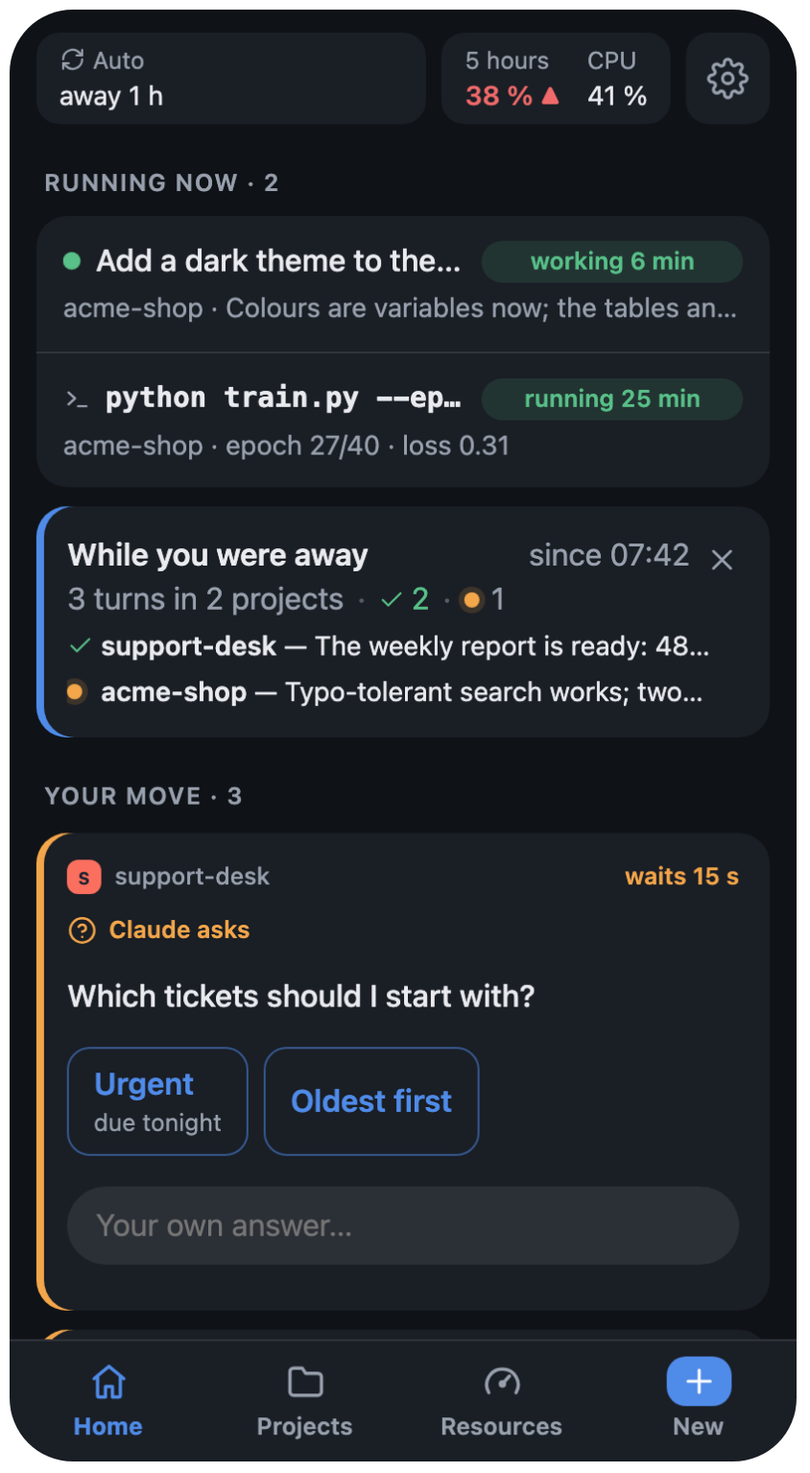
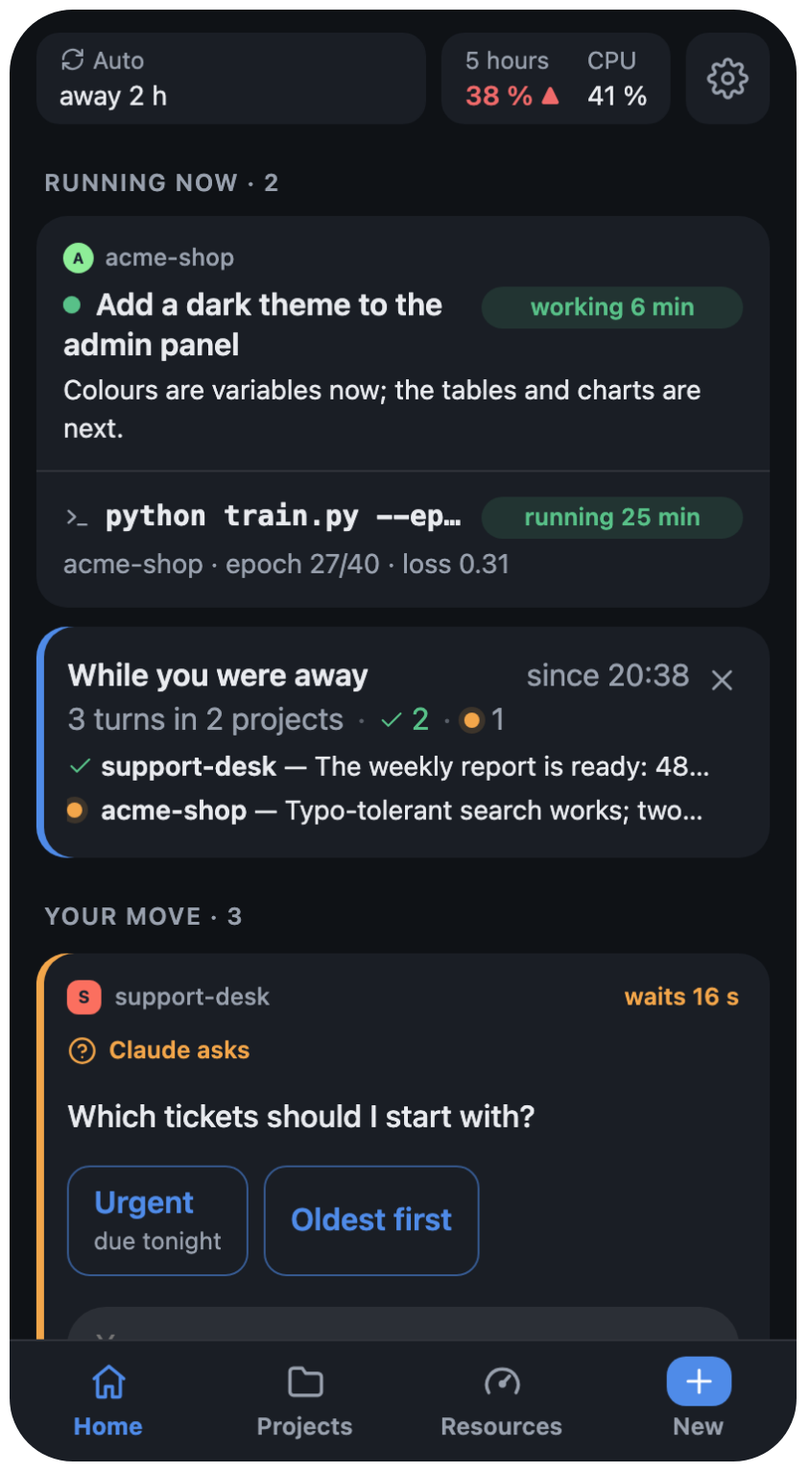
Pult 0.18.2 — work in progress on k2-windows

diff --git a/tools/media.py b/tools/media.py
@@ -1,11 +1,14 @@
 """Every picture of the README, made from the test stand and the daemon's own output — never from real projects.
 
   ~/.local/share/pult/venv/bin/python tools/media.py          # both languages, both themes, a few minutes
+  ~/.local/share/pult/venv/bin/python tools/media.py glance steps   # only these kinds (glance, steps, screens, hero, social)
 
   media/hero.{en,ru}[.dark].gif     the opening picture: the computer's Claude Code tab and the phone's topic side by
                                     side — a question on both, Allow on the phone, the tab goes on (tools/hero.py)
+  media/glance.{en,ru}[.dark].png   what the phone can do, in twelve tiles — the whole of Pult in one look
   media/steps.{en,ru}[.dark].png    how it works in three steps
-  media/f-<name>.{en,ru}[.dark].png one phone screen per feature: home, session, pace, files, newproject
+  media/f-<name>.{en,ru}[.dark].png one phone screen per feature: home, session, tags, pace, files, newproject, parts
+                                    (tags and parts come from a second stand: STAND_TAGS=1 STAND_PARTS=now)
   media/social.png                  1280×640, the link preview: GitHub takes it only in the repository's settings
                                     (Settings → General → Social preview); there is no API for it
   media/logo.svg, logo-512.png      the mark — tools/brand.py draws them
@@ -23,15 +26,20 @@ PY = sys.executable
 TMP = Path(tempfile.mkdtemp(prefix="pult-media-"))
 FONT = "-apple-system, BlinkMacSystemFont, 'Segoe UI', Roboto, sans-serif"
 
-# a feature's screen: the stand's link, the window's height (CSS px at 412 wide), what to do before the picture
+# a feature's screen: the stand's link, the window's height (CSS px at 412 wide), what to do before the picture, and
+# which stand it comes from — the plain one, or the one with a third project full of tagged tasks and every part of
+# Pult in Settings' table ("tags": STAND_TAGS=1 STAND_PARTS=now, on a port of its own)
 TO_BOTTOM = "window.scrollTo(0, document.documentElement.scrollHeight)"
 FEATURES = [
-    ("home", "HOME", 760, ""),
-    ("session", "SESS4", 760, TO_BOTTOM),
-    ("pace", "USAGE", 700, "document.querySelector('.spend-seg button').click()"),
-    ("files", "SESS4", 700, "document.querySelector('.tfline').click()"),
-    ("newproject", "NEWPROJ", 640, ""),
+    ("home", "HOME", 760, "", "main"),
+    ("session", "SESS4", 760, TO_BOTTOM, "main"),
+    ("tags", "PROJT", 760, "", "tags"),
+    ("pace", "USAGE", 700, "document.querySelector('.spend-seg button').click()", "main"),
+    ("files", "SESS4", 700, "document.querySelector('.tfline').click()", "main"),
+    ("newproject", "NEWPROJ", 640, "", "main"),
+    ("parts", "SETTINGS", 700, "", "tags"),
 ]
+STANDS = {"main": ("18097", {}), "tags": ("18099", {"STAND_TAGS": "1", "STAND_PARTS": "now"})}
 
 STEPS = {
     "en": [("Work as usual", "VS Code or a terminal: Pult picks up every session"),
@@ -41,6 +49,47 @@ STEPS = {
            ("Телефон зовёт, только когда нужен ты", "разрешение, вопрос, ход, который ждёт тебя"),
            ("Ответил — во вкладке пошло дальше", "разрешить, выбрать, ответить — прямо в открытую вкладку")],
 }
+# what the phone can do: a title of a few words and a line under it — the app's own line icons (IC in app.js)
+GLANCE = {
+    "en": [("Allow or deny", "a permission, from the phone"),
+           ("Answer a question", "an option, or your own words"),
+           ("Say what's next", "lands in the open VS Code tab"),
+           ("Whose move", "what runs, what waits for you"),
+           ("The whole session", "live, with ready replies"),
+           ("Voice", "speak — it arrives as text"),
+           ("Files both ways", "to the project and back"),
+           ("A new project", "a folder, a CLAUDE.md, a clone"),
+           ("Your plan's pace", "each limit, with a forecast"),
+           ("Tags on every task", "section and topic, by Claude"),
+           ("Model and effort", "per session, and a default"),
+           ("Keeps itself current", "a release in one tap; new Claude Code checked")],
+    "ru": [("Разрешить или нет", "запрос разрешения — с телефона"),
+           ("Ответить на вопрос", "вариант или свои слова"),
+           ("Сказать, что дальше", "в открытую вкладку VS Code"),
+           ("Чей ход", "что идёт, что ждёт тебя"),
+           ("Вся сессия", "вживую, с готовыми ответами"),
+           ("Голосом", "скажи — придёт текстом"),
+           ("Файлы в обе стороны", "в проект и обратно"),
+           ("Новый проект", "папка, CLAUDE.md или клон"),
+           ("Темп твоего плана", "каждый лимит, с прогнозом"),
+           ("Теги у каждой задачи", "раздел и тема, от Claude"),
+           ("Модель и раздумья", "на сессию и по умолчанию"),
+           ("Обновляется сам", "выпуск одной кнопкой; новый Claude Code проверен")],
+}
+GLANCE_ICONS = [
+    '<path d="M12 22s8-4 8-10V5l-8-3-8 3v7c0 6 8 10 8 10z"/><path d="m9 12 2 2 4-4"/>',                                    # shield
+    '<circle cx="12" cy="12" r="9.5"/><path d="M9.2 9.2a3 3 0 0 1 5.7 1.1c0 2-2.9 2.7-2.9 2.7"/><path d="M12 17h.01"/>',    # help
+    '<path d="M20.5 14.5a2 2 0 0 1-2 2H8l-4.5 4v-15a2 2 0 0 1 2-2h13a2 2 0 0 1 2 2z"/>',                                     # msg
+    '<path d="M3.5 10.5 12 3.5l8.5 7"/><path d="M5.5 9v11a1 1 0 0 0 1 1h3.5v-6h4v6h3.5a1 1 0 0 0 1-1V9"/>',               # home
+    '<rect x="8" y="2.5" width="8" height="4" rx="1"/><path d="M16 4.5h2a2 2 0 0 1 2 2V20a2 2 0 0 1-2 2H6a2 2 0 0 1-2-2V6.5a2 2 0 0 1 2-2h2"/><path d="M9 12h6M9 16h4"/>',  # plan
+    '<rect x="9" y="2.5" width="6" height="12" rx="3"/><path d="M5.5 11a6.5 6.5 0 0 0 13 0M12 17.5v4"/>',                 # mic
+    '<path d="m20.5 11.5-8.6 8.6a5.3 5.3 0 0 1-7.5-7.5l8.6-8.6a3.5 3.5 0 0 1 5 5l-8.6 8.6a1.8 1.8 0 0 1-2.5-2.5l7.9-7.9"/>',  # clip
+    '<path d="M3 7.5V18a2 2 0 0 0 2 2h14a2 2 0 0 0 2-2V9.5a2 2 0 0 0-2-2h-7l-2-3H5a2 2 0 0 0-2 2z"/>',                   # folder
+    '<path d="M4.2 18.5a9 9 0 1 1 15.6 0"/><path d="m12 13.5 4-4.5"/><circle cx="12" cy="13.5" r="1.2"/>',               # gauge
+    '<path d="M20.6 13.4 13.4 20.6a2 2 0 0 1-2.8 0L3 13V3h10l7.6 7.6a2 2 0 0 1 0 2.8z"/><path d="M7.5 7.5h.01"/>',        # tag
+    '<path d="M12 3v4M12 17v4M3 12h4M17 12h4M5.6 5.6l2.8 2.8M15.6 15.6l2.8 2.8M5.6 18.4l2.8-2.8M15.6 8.4l2.8-2.8"/>',     # spark
+    '<path d="M20.5 12a8.5 8.5 0 0 1-14.6 5.9L3.5 15.5"/><path d="M3.5 12a8.5 8.5 0 0 1 14.6-5.9l2.4 2.4"/><path d="M20.5 3.5v5h-5M3.5 20.5v-5h5"/>',  # auto
+]
 ICONS = [  # computer, phone with the warm dot, check — the app's own line icons
     '<rect x="2.5" y="3.5" width="19" height="13" rx="2"/><path d="M8 21h8M12 16.5V21"/>',
     '<rect x="6" y="2" width="12" height="20" rx="2.6"/><path d="M11 18h2"/>',
@@ -63,28 +112,30 @@ def page(name, body, css):
 
 
 def screens(lang):
-    """The features' screens from a stand in this language, light and dark: {(name, dark): png}."""
-    log = TMP / ("stand.%s.out" % lang)            # a file, not a pipe: a full pipe would stall the stand mid-shot
-    with open(log, "w") as f:
-        stand = subprocess.Popen([PY, str(REPO / "tools" / "stand.py")], stdout=f, stderr=subprocess.DEVNULL,
-                                 env=dict(os.environ, STAND_TAB="1", STAND_LANG=lang, HOLD="400"))
-    urls = {}
+    """The features' screens from the stands in this language, light and dark: {(name, dark): png}."""
+    procs, urls = [], {}
     try:
-        for _ in range(120):
-            urls = dict(l.partition(" ")[::2] for l in log.read_text().splitlines() if " http" in l)
-            if "NEWPROJ" in urls:
-                break
-            time.sleep(0.5)
+        for which, (port, extra) in STANDS.items():
+            log = TMP / ("stand.%s.%s.out" % (which, lang))   # a file, not a pipe: a full pipe would stall the stand mid-shot
+            with open(log, "w") as f:
+                procs.append(subprocess.Popen([PY, str(REPO / "tools" / "stand.py")], stdout=f, stderr=subprocess.DEVNULL,
+                                              env=dict(os.environ, STAND_TAB="1", STAND_LANG=lang, HOLD="400", STAND_PORT=port, **extra)))
+            for _ in range(120):
+                urls[which] = dict(l.partition(" ")[::2] for l in log.read_text().splitlines() if " http" in l)
+                if "NEWPROJ" in urls[which]:
+                    break
+                time.sleep(0.5)
         out = {}
-        for name, key, height, js in FEATURES:
+        for name, key, height, js, which in FEATURES:
             for dark in (False, True):
                 png = TMP / ("%s.%s%s.png" % (name, lang, ".dark" if dark else ""))
-                shot(urls[key], png, dark=dark, SHOT_HEIGHT=str(height), **({"SHOT_JS": js} if js else {}))
+                shot(urls[which][key], png, dark=dark, SHOT_HEIGHT=str(height), **({"SHOT_JS": js} if js else {}))
                 out[(name, dark)] = png
         return out
     finally:
-        stand.terminate()
-        stand.wait()
+        for p in procs:
+            p.terminate()
+            p.wait()
 
 
 def framed(img, out, dark):
@@ -118,6 +169,28 @@ def steps(lang, dark, out):
     shot(page(out.stem + ".html", body, css), out, width=572, wait=1, SHOT_FIT=".s", SHOT_CLEAR="1")
 
 
+def glance(lang, dark, out):
+    """What the phone can do, twelve tiles in two columns — the width of the README, and still readable in GitHub's
+    phone app: an icon, a title of a few words, a line under it."""
+    ink, mute, card, line = ("#e9ebef", "#9aa3b0", "#1a1e25", "rgba(255,255,255,.10)") if dark else ("#171a21", "#626a77", "#ffffff", "rgba(15,23,42,.10)")
+    tones = ["#6ea2f0", "#f3a64a", "#58c088", "#b48cf0"] if dark else ["#4f8be8", "#e8892b", "#2c9a63", "#8b5cf6"]
+    cells = []
+    for i, ((title, sub), path) in enumerate(zip(GLANCE[lang], GLANCE_ICONS)):
+        tone = tones[(i // 2 + i) % 4]
+        cells.append('<div class="c"><div class="i" style="color:%s;background:%s"><svg viewBox="0 0 24 24" width="24" height="24" fill="none" '
+                     'stroke="currentColor" stroke-width="1.9" stroke-linecap="round" stroke-linejoin="round">%s</svg></div>'
+                     '<div class="w"><b>%s</b><span>%s</span></div></div>' % (tone, tone + "1f", path, title, sub))
+    body = '<div class="g">%s</div>' % "".join(cells)
+    # the type is sized for GitHub's phone app, where the picture is about two thirds of this: as in steps()
+    css = (".g { width: 560px; padding: 6px; display: grid; grid-template-columns: 1fr 1fr; gap: 12px; }"
+           ".c { display: flex; align-items: flex-start; gap: 12px; background: %s; border: 1.5px solid %s; border-radius: 18px; padding: 14px 13px 14px 14px; }"
+           ".i { flex: none; width: 42px; height: 42px; border-radius: 13px; display: flex; align-items: center; justify-content: center; }"
+           ".w { min-width: 0; padding-top: 1px; }"
+           "b { display: block; font-size: 18.5px; line-height: 1.2; color: %s; letter-spacing: -.012em; }"
+           ".w > span { display: block; margin-top: 4px; font-size: 15px; line-height: 1.3; color: %s; }" % (card, line, ink, mute))
+    shot(page(out.stem + ".html", body, css), out, width=572, wait=1, SHOT_FIT=".g", SHOT_CLEAR="1")
+
+
 def social(still, out):
     """The link preview: the mark, the name and what it does on the left; the opening picture's first frame on the right."""
     logo = (MEDIA / "logo.svg").read_text(encoding="utf-8").replace("<svg ", '<svg width="96" height="96" ', 1)
@@ -140,28 +213,40 @@ def social(still, out):
     subprocess.run(["sips", "-z", "640", "1280", str(big), "--out", str(out)], check=True, stdout=subprocess.DEVNULL)
 
 
+KINDS = ("screens", "steps", "glance", "hero", "social")
+
+
 def main():
+    only = set(sys.argv[1:]) or set(KINDS)
+    bad = only - set(KINDS)
+    if bad:
+        sys.exit("media: no such kind %s — one of %s" % (", ".join(sorted(bad)), ", ".join(KINDS)))
     MEDIA.mkdir(exist_ok=True)
     subprocess.run([PY, str(REPO / "tools" / "brand.py")], check=True, stdout=subprocess.DEVNULL)
     still = None
     for lang in ("en", "ru"):
-        s = screens(lang)
-        for (name, dark), png in s.items():
-            framed(png, MEDIA / ("f-%s.%s%s.png" % (name, lang, ".dark" if dark else "")), dark)
+        if "screens" in only:
+            for (name, dark), png in screens(lang).items():
+                framed(png, MEDIA / ("f-%s.%s%s.png" % (name, lang, ".dark" if dark else "")), dark)
         for dark in (False, True):
             sfx = ".dark" if dark else ""
-            steps(lang, dark, MEDIA / ("steps.%s%s.png" % (lang, sfx)))
-            gif = MEDIA / ("hero.%s%s.gif" % (lang, sfx))
-            subprocess.run([PY, str(REPO / "tools" / "hero.py"), str(gif)] + (["dark"] if dark else []), check=True,
-                           env=dict(os.environ, STAND_LANG=lang), stdout=subprocess.DEVNULL, stderr=subprocess.DEVNULL)
-            first = gif.with_suffix(".png")          # hero.py leaves its first frame next to the animation
-            if lang == "en" and not dark:
-                still = TMP / "hero-first.png"
-                shutil.move(first, still)
-            else:
-                first.unlink()
+            if "steps" in only:
+                steps(lang, dark, MEDIA / ("steps.%s%s.png" % (lang, sfx)))
+            if "glance" in only:
+                glance(lang, dark, MEDIA / ("glance.%s%s.png" % (lang, sfx)))
+            if "hero" in only or ("social" in only and lang == "en" and not dark):
+                gif = MEDIA / ("hero.%s%s.gif" % (lang, sfx))
+                subprocess.run([PY, str(REPO / "tools" / "hero.py"), str(gif)] + (["dark"] if dark else []), check=True,
+                               env=dict(os.environ, STAND_LANG=lang), stdout=subprocess.DEVNULL, stderr=subprocess.DEVNULL)
+                first = gif.with_suffix(".png")          # hero.py leaves its first frame next to the animation
+                if lang == "en" and not dark:
+                    still = TMP / "hero-first.png"
+                    shutil.move(first, still)
+                else:
+                    first.unlink()
         print(lang, "done", flush=True)
-    social(still, MEDIA / "social.png")
+    if "social" in only:
+        social(still, MEDIA / "social.png")
     for p in sorted(MEDIA.iterdir()):
         print("%-28s %5.0f KB" % (p.name, p.stat().st_size / 1024))
 

diff --git a/src/pultd.py b/src/pultd.py
@@ -100,7 +100,7 @@ ALBUM_WAIT = 2.0                # s after an album's last file: Telegram sends i
 STT_WORDS_MAX = 280             # characters of the owner's own words for Whisper: with the sentence, within Groq's 896 bytes
 STT_MAX = 4 * 1024 * 1024       # bytes of one recording from the app (5 min at 32 kbit/s ≈ 1.2 MB; base64 must fit the 8 MB frame)
 PERMISSION_MODE = os.environ.get("PULT_PERMISSION_MODE", "auto")
-VERSION = "0.18.1"
+VERSION = "0.18.2"
 LOG_FILE = Path(os.environ.get("PULT_LOG") or pult_os.LOG_DIR / "pult.log").expanduser()
 SETTINGS = Path("~/.claude/settings.json").expanduser()
 TAB_CONF = Path("~/.config/pult/tab.json").expanduser()          # tab wrapper: folders and verified versions

diff --git a/README.md b/README.md
@@ -11,7 +11,7 @@ Claude asks — your phone rings. You answer — the open VS Code tab goes on.</
   <a href="LICENSE"><img src="https://img.shields.io/badge/license-MIT-555" alt="MIT"></a>
 </p>
 
-<p align="center"><a href="#install">Install</a> · <a href="#how-it-works">How it works</a> · <a href="#what-you-get">What you get</a> · <a href="guide/usage.md">Guide</a> · <a href="README.ru.md">Русский</a></p>
+<p align="center"><a href="#from-the-phone">From the phone</a> · <a href="#install">Install</a> · <a href="#how-it-works">How it works</a> · <a href="#what-you-get">What you get</a> · <a href="guide/usage.md">Guide</a> · <a href="README.ru.md">Русский</a></p>
 
 <p align="center">
   <picture>
@@ -23,6 +23,18 @@ Claude asks — your phone rings. You answer — the open VS Code tab goes on.</
 You give Claude Code a task and walk away. When Claude stops to ask, **Pult** rings your phone in the project's
 Telegram topic, and your answer reaches the session — even the tab open in VS Code. It runs on your computer and
 opens no port to the network. *Pult* is Russian for a remote control.
+
+## From the phone
+
+<p align="center">
+  <picture>
+    <source media="(prefers-color-scheme: dark)" srcset="media/glance.en.dark.png">
+    <img src="media/glance.en.png" width="560" alt="Allow or deny a permission from the phone; answer Claude's question; say what's next and it lands in the open VS Code tab; see whose move it is; the whole session live, with ready replies; voice that arrives as text; files both ways; a new project; your plan's pace; tags on every task; the model and the effort; Pult keeps itself current">
+  </picture>
+</p>
+
+Each one with its screen: [what you get](#what-you-get). The rest, from ticks on your message to `pult run`:
+**[the guide](guide/usage.md)**.
 
 ## Install
 
@@ -64,6 +76,13 @@ by the field.
 
 <p align="center"><picture><source media="(prefers-color-scheme: dark)" srcset="media/f-session.en.dark.png"><img src="media/f-session.en.png" width="330" alt="A session in the app: Claude's report, its question, the outcome card waiting for you with three ready replies and the turn's files"></picture></p>
 
+### Tasks sorted by Claude
+
+Every task gets a section of the project and a topic in it, from the same small model that writes the result line —
+nothing to set up. Tap a section to see only its tasks; tap the tags to correct them.
+
+<p align="center"><picture><source media="(prefers-color-scheme: dark)" srcset="media/f-tags.en.dark.png"><img src="media/f-tags.en.png" width="330" alt="A project in the app: its sections on top with how many tasks in each, a task that waits for you with its tags and ready replies, the tasks running"></picture></p>
+
 ### Your plan's pace
 
 Each limit against the even pace, with a forecast: on pace, under or over — and when it would run out.
@@ -83,11 +102,23 @@ An empty folder with git, a `CLAUDE.md` Claude writes from your words, or a clon
 
 <p align="center"><picture><source media="(prefers-color-scheme: dark)" srcset="media/f-newproject.en.dark.png"><img src="media/f-newproject.en.png" width="330" alt="New project in the app: a name, its folder, where to put it and how to start: empty, with a description or from GitHub"></picture></p>
 
-And: tags on every task — the section of the project and the topic in it, kept by Claude (switch them on in Settings), corrected with a tap — voice
-messages as text, the model and effort per session and a default for both, a pager that knows whether you're at the computer,
-ticks on your message — sent, read by Claude — `pult run` for your own long commands, a new release installed from the
-app with one tap (macOS, Linux) — Pult finds it on GitHub by itself, and your app server takes the same one from GitHub
-after the computer ([once: `install.sh --auto`](deploy/relay/README.md#updates)) — every part of Pult in one table — what runs where and how far it is behind `main`. **[All of it](guide/usage.md)**.
+### Pult looks after itself
+
+Every part in one table: the computer, the app and its server, this phone's copy, the VS Code tabs, the hooks,
+Claude Code. A new release goes in with one tap (macOS, Linux) and your app server follows
+([once: `install.sh --auto`](deploy/relay/README.md#updates)); a Claude Code version VS Code has downloaded is
+checked here before your tabs move to it.
+
+<p align="center"><picture><source media="(prefers-color-scheme: dark)" srcset="media/f-parts.en.dark.png"><img src="media/f-parts.en.png" width="330" alt="Settings in the app: the table of Pult's parts — the computer, the app and the relay on the server, this phone, the VS Code tabs, the hooks, Claude Code, the release — each with what it runs and whether it is as in main; the switch that checks new Claude Code versions"></picture></p>
+
+And:
+
+- **Voice** — a voice message in the topic, or the microphone in the app, arrives as text (Groq Whisper, with a key of yours).
+- **Model and effort** — per session, switched while it runs; a default for the sessions Pult starts.
+- **Ticks** on your message — sent, read by Claude — and a pager that knows whether you're at the computer.
+- **`pult run`** for your own long commands, reported like a turn.
+
+**[All of it](guide/usage.md)**.
 
 ## Next to the official options
 

diff --git a/guide/usage.ru.md b/guide/usage.ru.md
@@ -49,6 +49,13 @@
 - **Новый проект**: папка где угодно в домашней — пустая с git, с `CLAUDE.md`, который Claude напишет по твоему
   описанию, или клон репозитория. Тема проекта сразу появляется в группе.
 
+- **Сам Пульт**: «Настройки → Пульт и его части» — компьютер, приложение и посредник на твоём сервере, копия на этом
+  телефоне, вкладки VS Code, хуки, Claude Code и выпуск: что у каждой стоит и насколько отстало от ветки, из которой
+  Пульт поставлен. Новый выпуск ставится оттуда одной кнопкой (macOS, Linux; клон сам находит выпуски на GitHub), сервер
+  приложения берёт тот же с GitHub ([один раз: `install.sh --auto`](../deploy/relay/README.md#updates)). Версию Claude
+  Code, которую скачал VS Code, Пульт проверяет на компьютере до того, как на неё перейдут вкладки; выключатель —
+  «Проверять новые версии Claude Code».
+
 ## В терминале
 
 `pult help` перечислит всё: `status`, `setup`, `start|stop|restart`, `busy`, `hooks on|off`, `tab …`, `app`, `stt`,

diff --git a/CHANGELOG.md b/CHANGELOG.md
@@ -2,6 +2,18 @@
 
 Versions 0.x come before the first public release. Newest first.
 
+## 0.18.2 — 2026-10-26
+
+- **The README opens with what the phone can do.** Twelve tiles under the opening picture — allow or deny, answer a
+  question, say what's next, whose move, the whole session, voice, files both ways, a new project, the plan's pace,
+  tags, model and effort, Pult keeping itself current — so the whole of Pult is one look, in GitHub's phone app too;
+  the navigation starts from them. Two more screens among the features: a project's tasks sorted by Claude's tags,
+  and Settings' table of Pult's parts with the release and the Claude Code check. What was one long paragraph of
+  everything since 0.15 is a short list. The pictures come from `tools/media.py` as before — the tiles and the two
+  screens are new (`glance`, `f-tags`, `f-parts`), from a second stand with tagged tasks and the parts table;
+  `tools/media.py glance` redraws one kind. The guide names Settings → Pult and its parts, the install from there
+  and the Claude Code check. Every picture is redrawn: Home's cards show a task's title whole, as since 0.18.0.
+
 ## 0.18.1 — 2026-10-26
 
 - **Pult checks a new Claude Code version itself, before your tabs move to it.** VS Code updates the Claude Code

diff --git a/guide/usage.md b/guide/usage.md
@@ -51,6 +51,13 @@ you're neither in the app nor at the computer. Reminders on long turns; warnings
 - **A new project**: a folder anywhere in your home folder — empty with git, with a `CLAUDE.md` that Claude writes
   from your description, or a clone of a repository. Its topic appears in the group at once.
 
+- **Pult itself**: Settings → Pult and its parts — the computer, the app and the relay on your server, this phone's
+  copy, the VS Code tabs, the hooks, Claude Code and the release, each with what it runs and how far it is behind the
+  branch Pult was installed from. A new release installs from there with one tap (macOS, Linux; a clone finds releases
+  on GitHub by itself), and your app server takes the same one from GitHub
+  ([once: `install.sh --auto`](../deploy/relay/README.md#updates)). A Claude Code version VS Code has downloaded is
+  checked on your computer before the tabs move to it; "Check new Claude Code versions" turns that off.
+
 ## In a terminal
 
 `pult help` lists them all: `status`, `setup`, `start|stop|restart`, `busy`, `hooks on|off`, `tab …`, `app`, `stt`,
